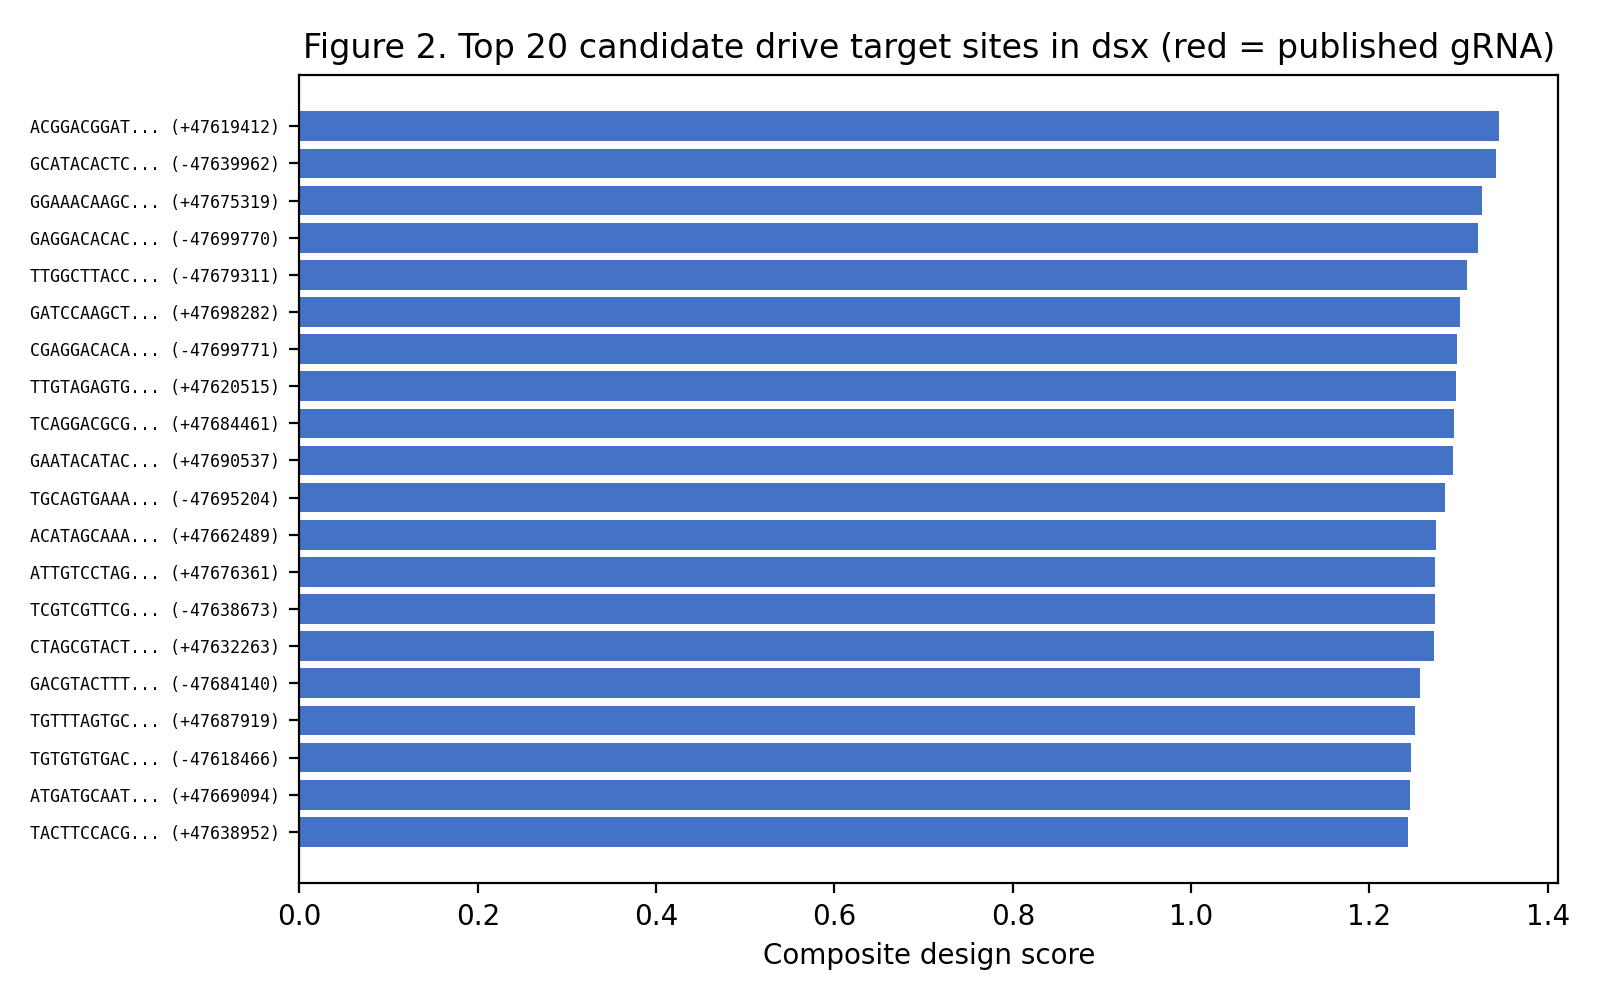
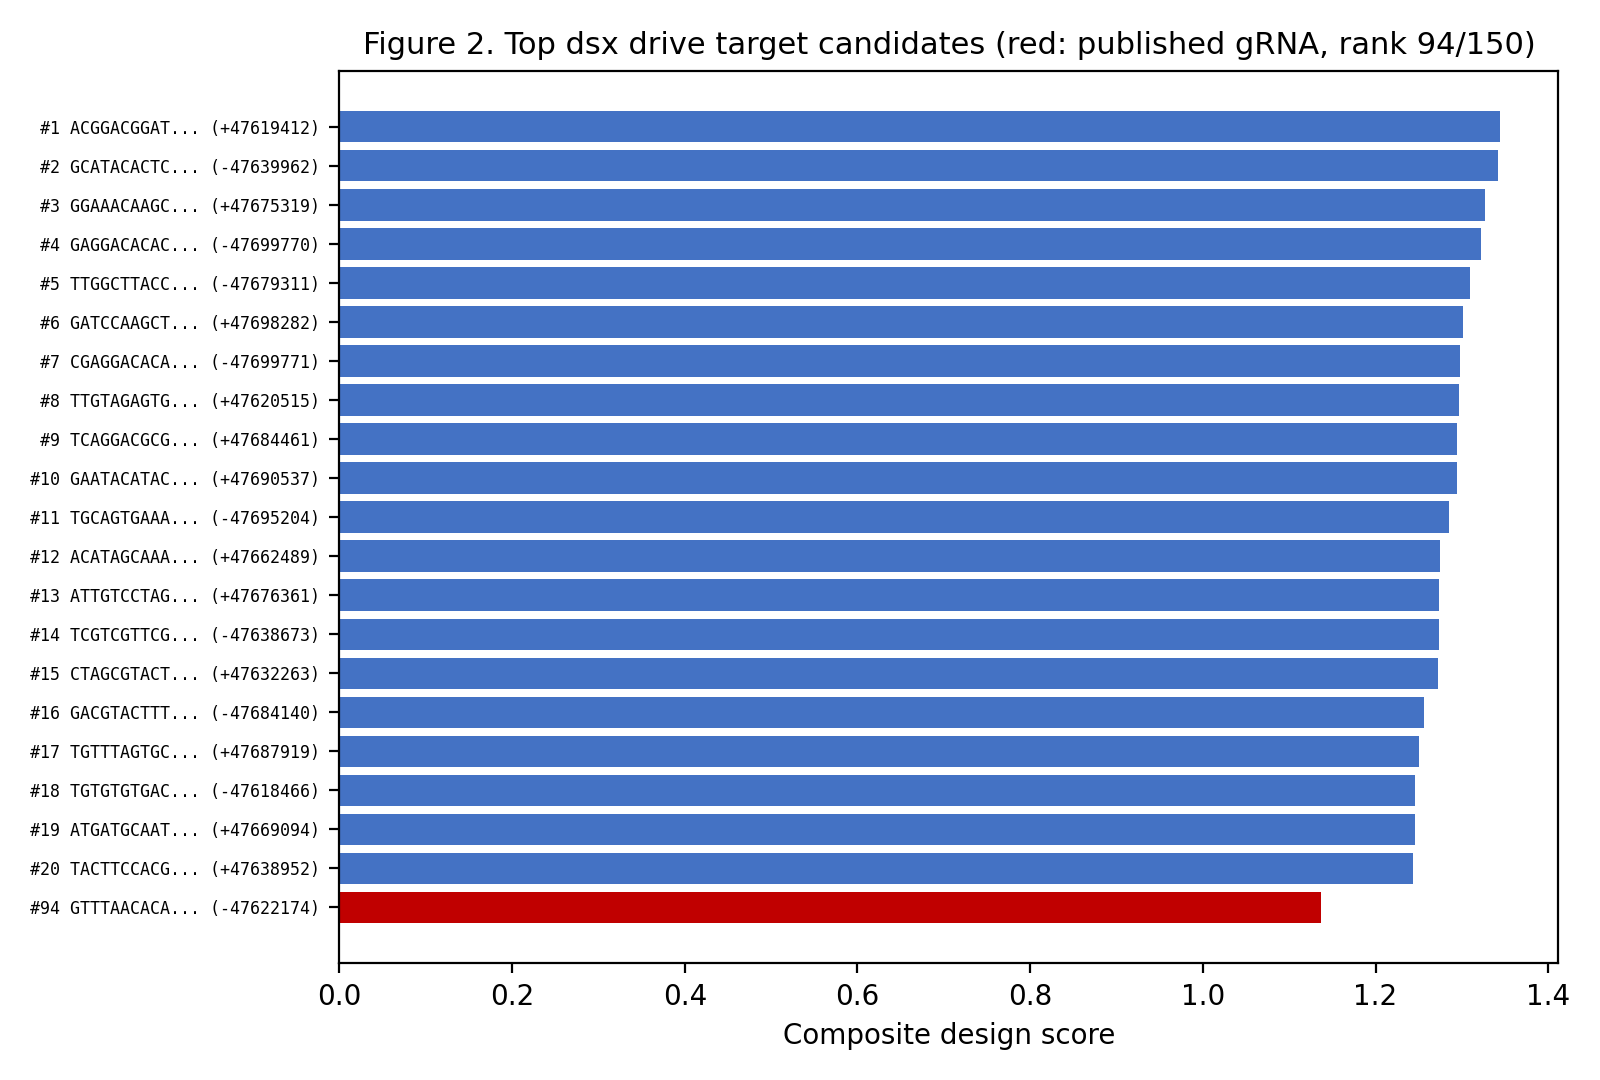
figures: fig2 shows published gRNA at true rank; dsx identity provenance note

diff --git a/mosqdesign/make_figures.py b/mosqdesign/make_figures.py
@@ -44,19 +44,23 @@ def make() -> list[str]:
     fig.savefig(p1, dpi=200)
     plt.close(fig)
 
-    # fig 2: top-20 ranked designs
-    top = summary["top10_designs"]
+    # fig 2: top-20 ranked designs + the published Kyrou gRNA shown at its true rank
     import csv
-    rows = list(csv.DictReader(open(os.path.join(RESULTS, "ranked_designs.csv"))))[:20]
-    fig, ax = plt.subplots(figsize=(8, 5))
-    labels = [f"{r['protospacer'][:10]}... ({r['strand']}{r['genomic_pos']})" for r in rows]
+    all_rows = list(csv.DictReader(open(os.path.join(RESULTS, "ranked_designs.csv"))))
+    rows = all_rows[:20]
+    kyrou_rows = [r for r in all_rows if r["protospacer"] == KYROU]
+    kyrou_rank = int(kyrou_rows[0]["rank"]) if kyrou_rows else None
+    if kyrou_rows:
+        rows = rows + [kyrou_rows[0]]
+    fig, ax = plt.subplots(figsize=(8, 5.4))
+    labels = [f"#{r['rank']} {r['protospacer'][:10]}... ({r['strand']}{r['genomic_pos']})" for r in rows]
     scores = [float(r["score"]) for r in rows]
     colors = ["#C00000" if r["protospacer"] == KYROU else "#4472C4" for r in rows]
     ax.barh(range(len(rows))[::-1], scores, color=colors)
     ax.set_yticks(range(len(rows))[::-1])
     ax.set_yticklabels(labels, fontsize=6, family="monospace")
     ax.set_xlabel("Composite design score")
-    ax.set_title("Figure 2. Top 20 candidate drive target sites in dsx (red = published gRNA)")
+    ax.set_title(f"Figure 2. Top dsx drive target candidates (red: published gRNA, rank {kyrou_rank}/{len(all_rows)})", fontsize=11)
     fig.tight_layout()
     p2 = os.path.join(FIGURES, "fig2_top_designs.png")
     fig.savefig(p2, dpi=200)

diff --git a/assets/PROVENANCE.md b/assets/PROVENANCE.md
@@ -4,3 +4,12 @@
 (5,310 experimentally measured 30-mer guides; MicrosoftResearch/azimuth mirror).
 Held-out Spearman 0.556; cross-dataset on Doench V1 0.609 (see metrics JSON).
 Architecture and training code: MEGA27-06 crisprgap package (same program).
+
+## dsx locus identity verification
+NCBI Gene 1270904 is labeled "uncharacterized LOC1270904" in current RefSeq, but it is
+the record NCBI Gene returns for the alias AGAP004050 (VectorBase doublesex id);
+RefSeq naming lags VectorBase. Identity independently confirmed in silico: the
+published Kyrou 2018 dsx drive gRNA (5'-GTTTAACACAGGTCAAGCGG TGG-3', from the
+paper's full text, PMC6871539) matches exactly one site inside the fetched locus
+(NC_064601.1:47600000-47710000, minus strand, consistent with the gene's annotated
+strand and position).
